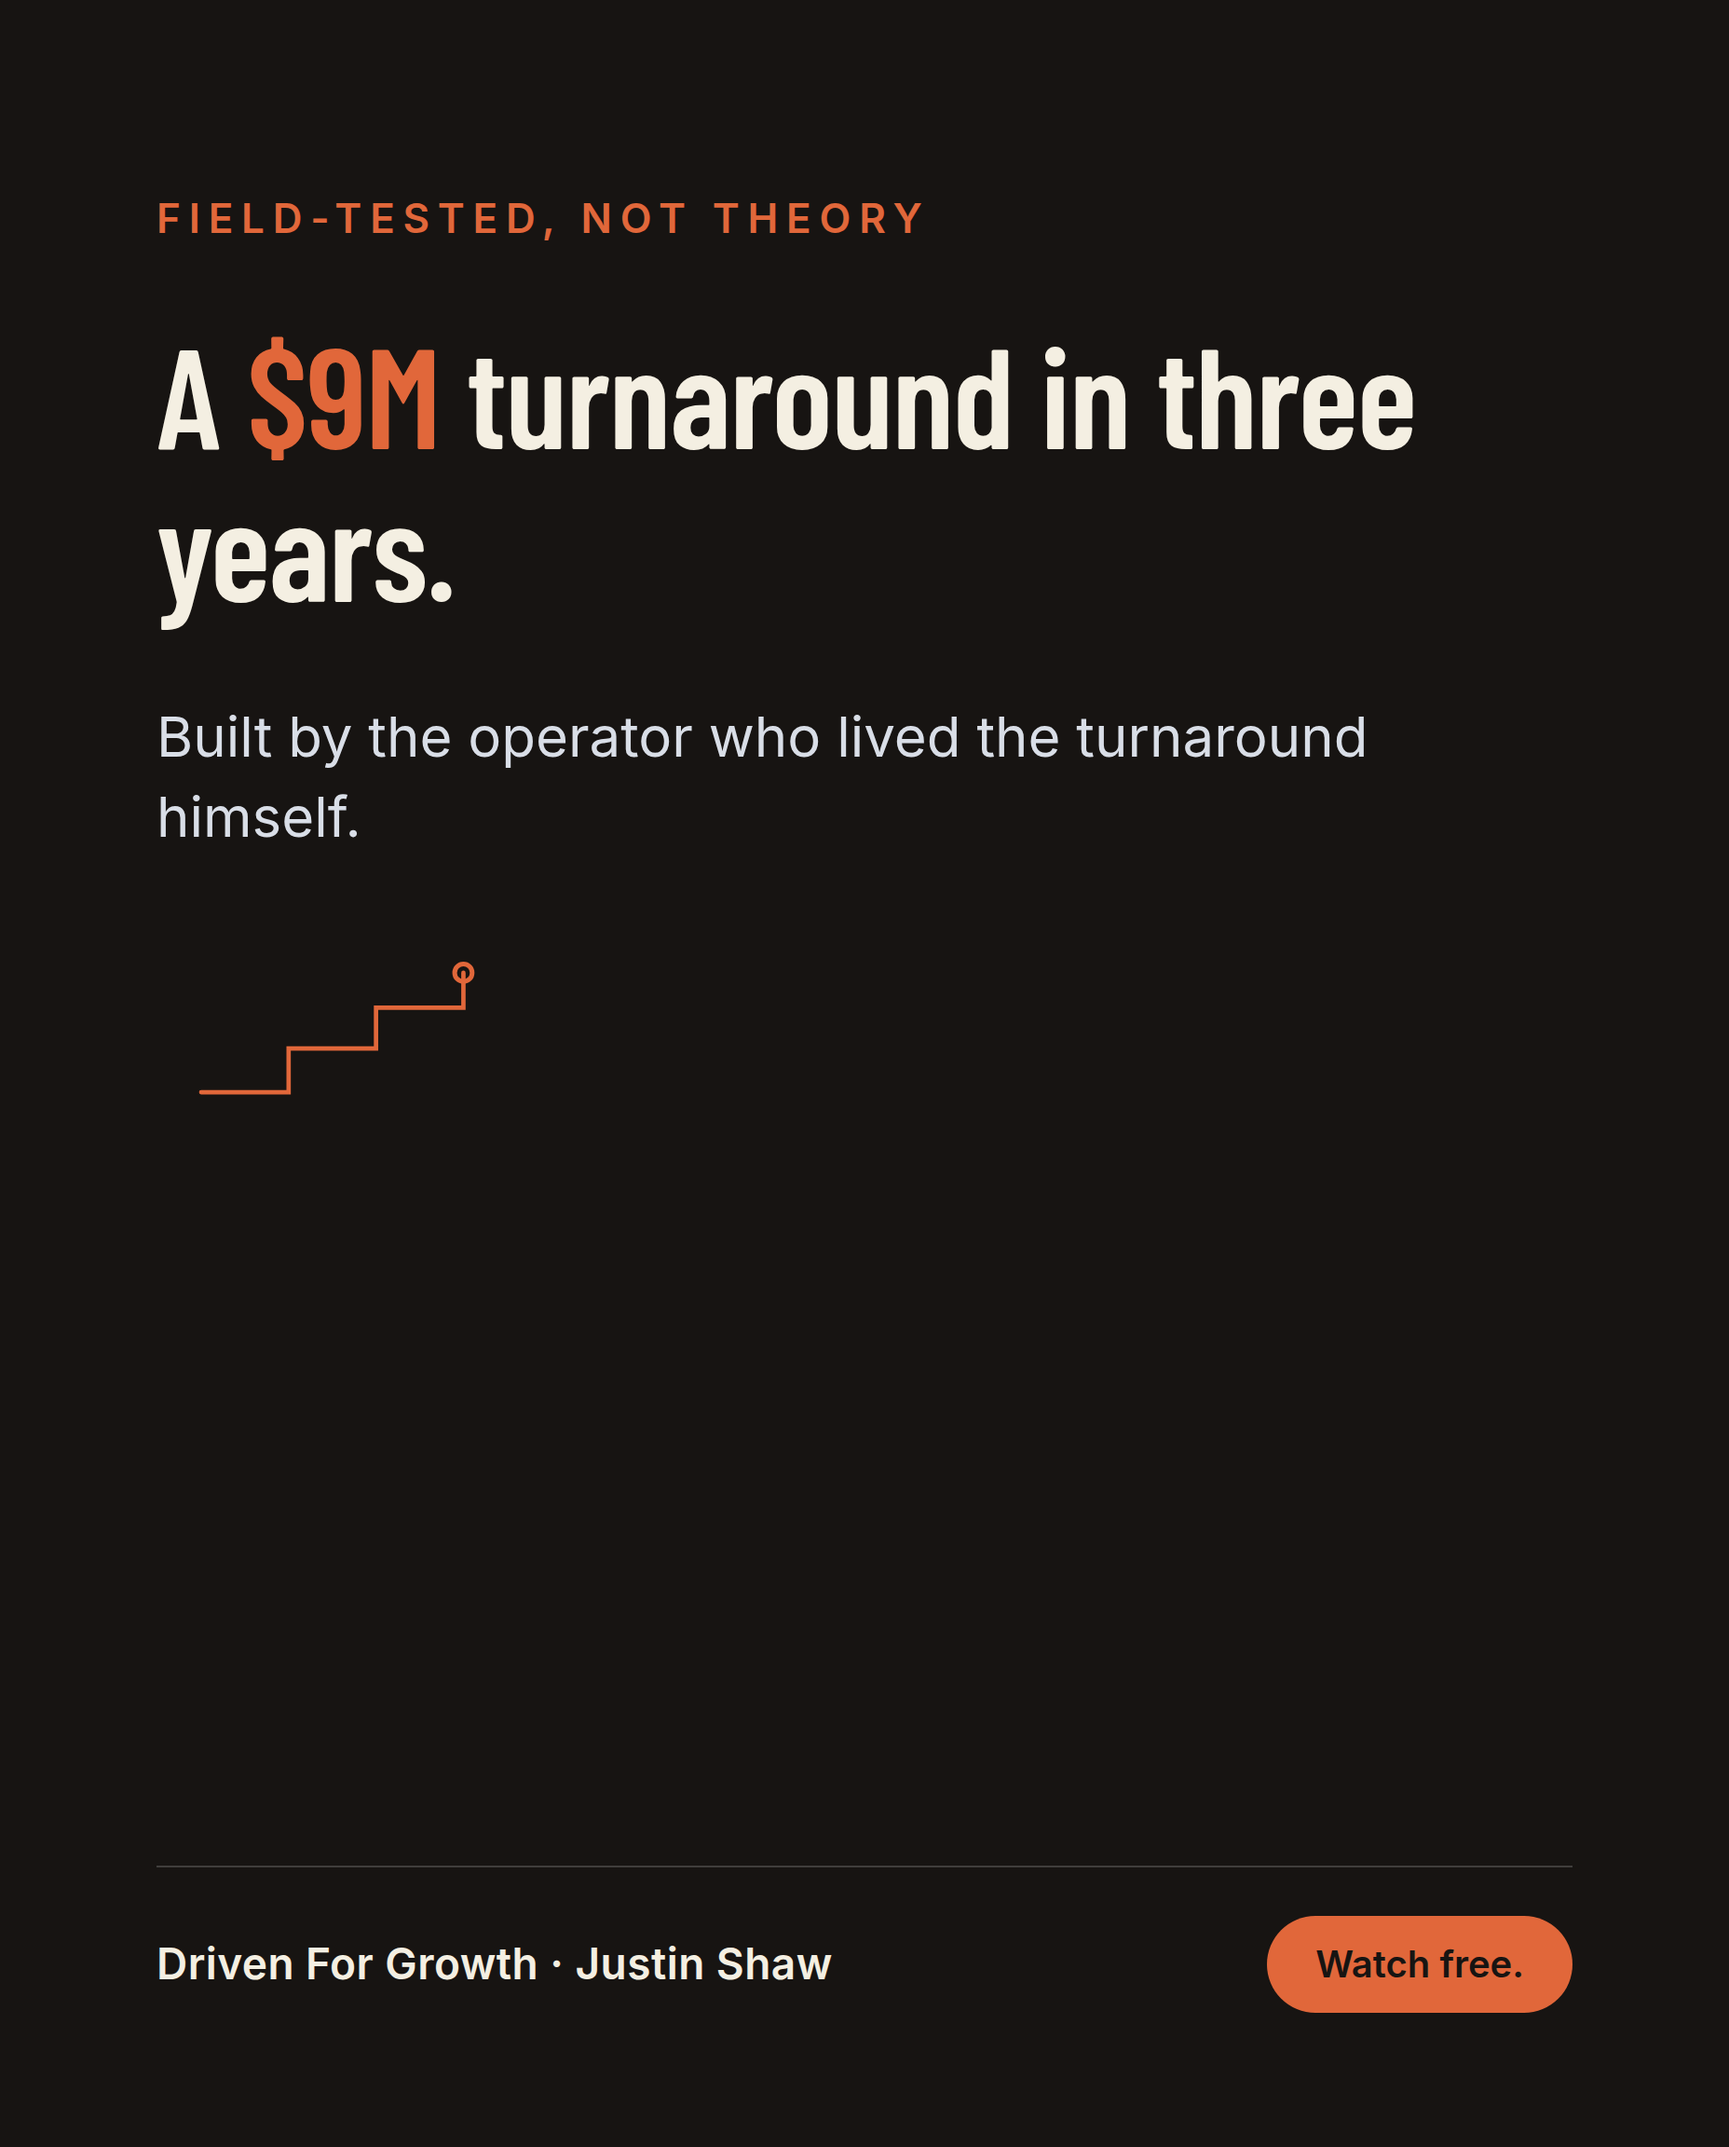
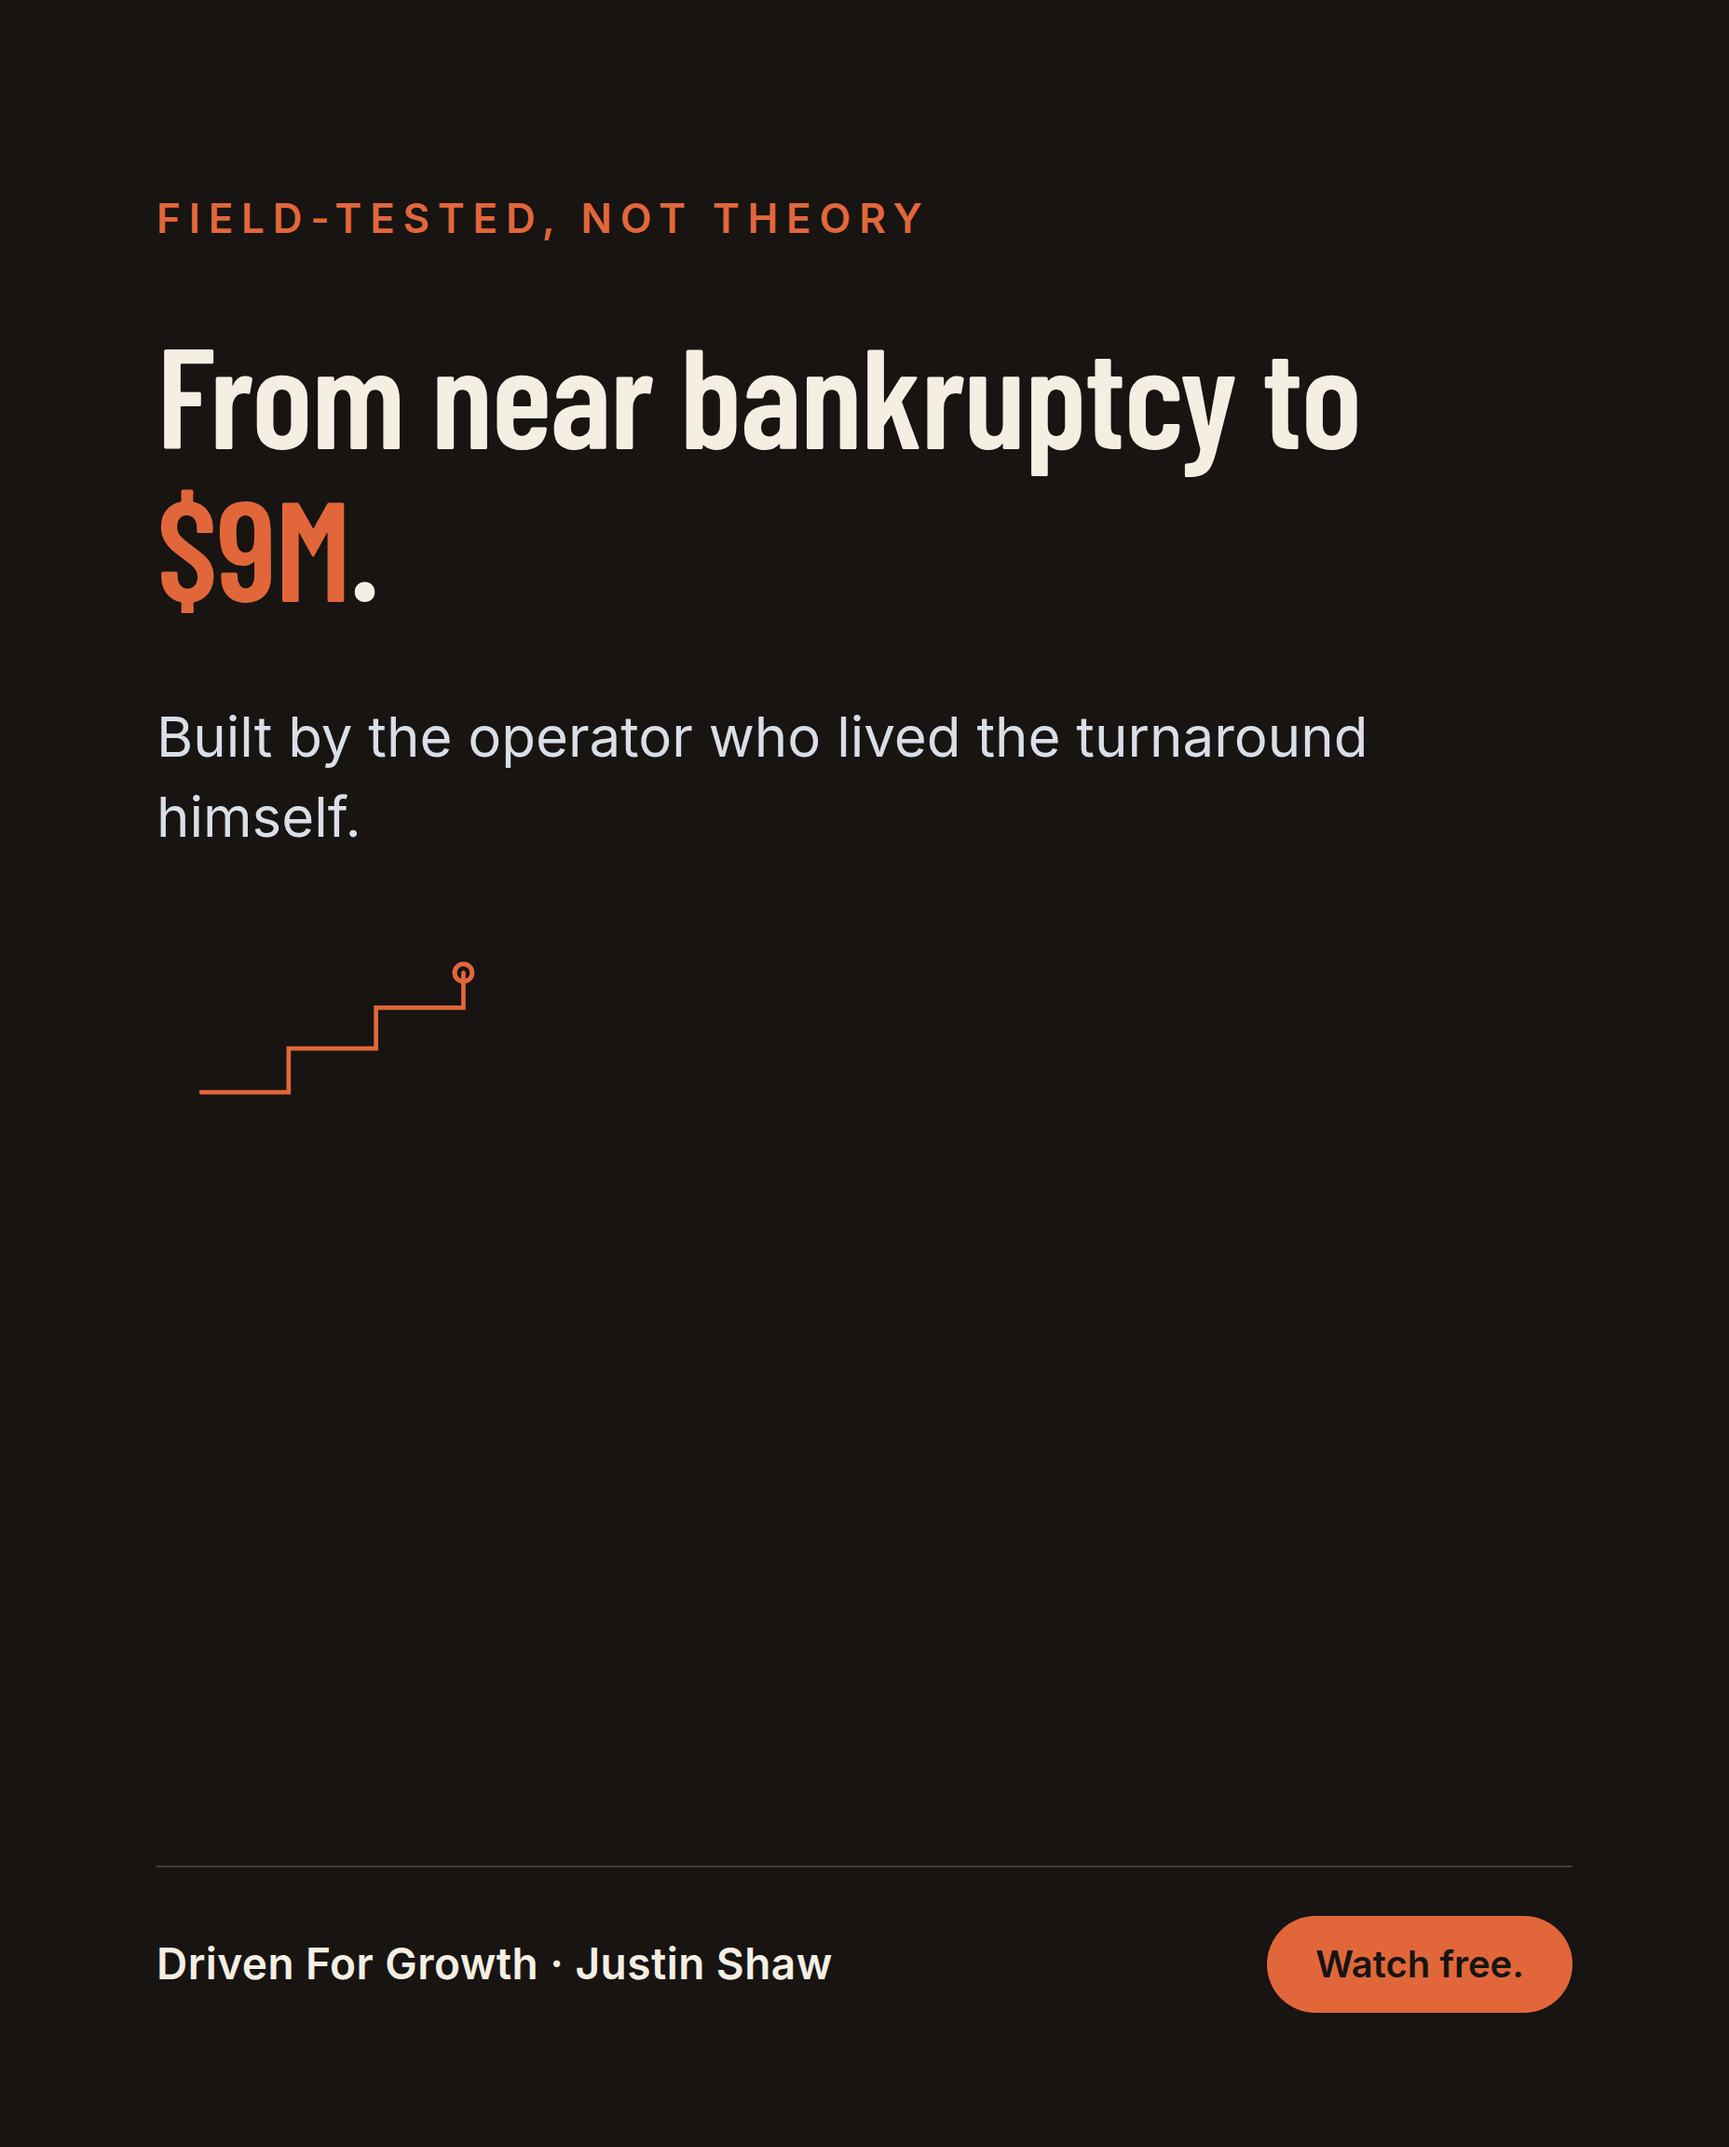
showcase: driven-for-growth

Changed region(s): [[0.0938, 0.1562, 0.8125, 0.3125]]

diff --git a/driven-for-growth/deck.html b/driven-for-growth/deck.html
@@ -96,14 +96,14 @@ const S = [
  {t:'normal',k:'Sales Engine',title:'A sales process that closes jobs without you closing every deal.',body:'A repeatable way to turn estimates and bids into closed work at your revenue scale, so growth doesn\'t depend on the owner personally being in every sales conversation.'},
  {t:'normal',k:'Marketing Machine',title:'Demand that shows up on a schedule, not a mood.',body:'A system for keeping jobs coming in consistently, instead of leaning on referral reputation alone and riding the feast-and-famine cycle every year.'},
  {t:'normal',k:'Conversion Content Formula',title:'One client turned a $100-a-month channel into $1M in booked work.',body:'The named content system behind that result: consistent content that earns attention and turns it into real, closed business, without adding headcount or hours to the owner\'s week.'},
- {t:'dark',title:'Four engines, one business that finally runs whether or not the owner is in the room.'},
+ {t:'dark',title:'Four systems, one business that finally runs whether or not the owner is in the room.'},
 
  {t:'section',idx:'Part Three',title:'The Business On The Other Side Of The Loop'},
  {t:'normal',k:'The business this builds',title:'A company that keeps its numbers when you take a week off.',body:'Two documented outcomes from owners who installed these systems: 2x revenue in 10 months, and one company that grew from $6M to $20M.'},
  {t:'normal',k:'Why Justin Shaw',title:'He rebuilt his own company before he ever coached anyone else\'s.',body:'Justin Shaw took a company from near-bankrupt to $9M in revenue in three years as Regional Director, then founded Driven For Growth to fix the same trap for 50+ other stone, tile, and flooring business owners. Co-founder Wes Fields came up the other way: installer to General Manager of a multimillion-dollar surface company, so the Engine is built from both seats.'},
 
  {t:'section',idx:'Your Next Step',title:'Bring The Leadership Engine To Your Business'},
- {t:'normal',k:'How it\'s delivered',title:'The 90-Day Growth Engine Program: all four engines, installed together.',body:'Driven For Growth runs the Leadership Engine, Sales Engine, Marketing Machine, and Conversion Content Formula as one connected system for $1M-$35M stone, tile, and flooring business owners, with regular teaching at TISE, Coverings, NWFA, and ISFA.'},
+ {t:'normal',k:'How it\'s delivered',title:'The 90-Day Growth Engine Program: all four systems, installed together.',body:'Driven For Growth runs the Leadership Engine, Sales Engine, Marketing Machine, and Conversion Content Formula as one connected system for $1M-$35M stone, tile, and flooring business owners, with regular teaching at TISE, Coverings, NWFA, and ISFA.'},
  {t:'cta',title:'Ready to build a business that runs without you in the room?',chips:['Book a Game Plan Call','90-Day Growth Engine Program'],disc:'Educational content for stone, tile, and flooring business owners. No income or sales result is guaranteed. Results vary by company, market, and team.'},
 ];
 

diff --git a/driven-for-growth/index.html b/driven-for-growth/index.html
@@ -87,7 +87,7 @@
     <p>Four ad directions in your own colors, built from the Owner Overload Loop, written to stop a surface-trade owner mid-scroll.</p>
     <div class="ad-grid">
       <img src="/driven-for-growth/ad01.png" alt="Ad concept: Your business still runs through you">
-      <img src="/driven-for-growth/ad02.png" alt="Ad concept: A $9M turnaround in three years">
+      <img src="/driven-for-growth/ad02.png" alt="Ad concept: From near bankruptcy to $9M">
       <img src="/driven-for-growth/ad03.png" alt="Ad concept: A business that runs without you">
       <img src="/driven-for-growth/ad04.png" alt="Ad concept: Breaking The Owner Overload Loop invitation">
     </div>
@@ -96,7 +96,7 @@
   <div class="section">
     <div class="section-label">What the paid engine could produce</div>
     <h2>The numbers</h2>
-    <p>I don't know the Growth Engine Program's price, so this uses a conservative benchmark from the general market for high-touch business coaching at your revenue band, which commonly runs $500-$5,000 a month. The figures below use $2,500 a month as that benchmark, not your real number. Actuals would calibrate to your real numbers after the first month.</p>
+    <p>I don't know the 90-Day Growth Engine Program's price, so this uses a conservative benchmark from the general market for high-touch business coaching at your revenue band, which commonly runs $500-$5,000 a month. The figures below use $2,500 a month as that benchmark, not your real number. Actuals would calibrate to your real numbers after the first month.</p>
     <table>
       <thead>
         <tr><th>Metric</th><th>Conservative</th><th>Moderate</th></tr>
@@ -109,10 +109,10 @@
         <tr><td>Masterclass viewers</td><td>18</td><td>30</td></tr>
         <tr><td>Call-booking rate</td><td>5%</td><td>8%</td></tr>
         <tr><td>New calls booked / month</td><td>~1</td><td>~2</td></tr>
-        <tr class="hl"><td>New revenue added each month</td><td>~$2,500 / mo</td><td>~$5,000 / mo</td></tr>
+        <tr class="hl"><td>New revenue added each month</td><td>~$2,250 / mo</td><td>~$6,000 / mo</td></tr>
       </tbody>
     </table>
-    <p class="fn">Each new client is modeled as one $2,500-a-month Growth Engine Program seat, using the precise booked-call estimate (0.9 and 2.4 before rounding for display above) rather than the rounded whole number. Every new client stacks onto your existing game-plan call flow; nothing about how you enroll changes.</p>
+    <p class="fn">Each new client is modeled as one $2,500-a-month 90-Day Growth Engine Program seat, using the precise booked-call estimate (0.9 and 2.4 before rounding for display above) rather than the rounded whole number: 0.9 x $2,500 and 2.4 x $2,500. Every new client stacks onto your existing game-plan call flow; nothing about how you enroll changes.</p>
   </div>
 
   <div class="section">
